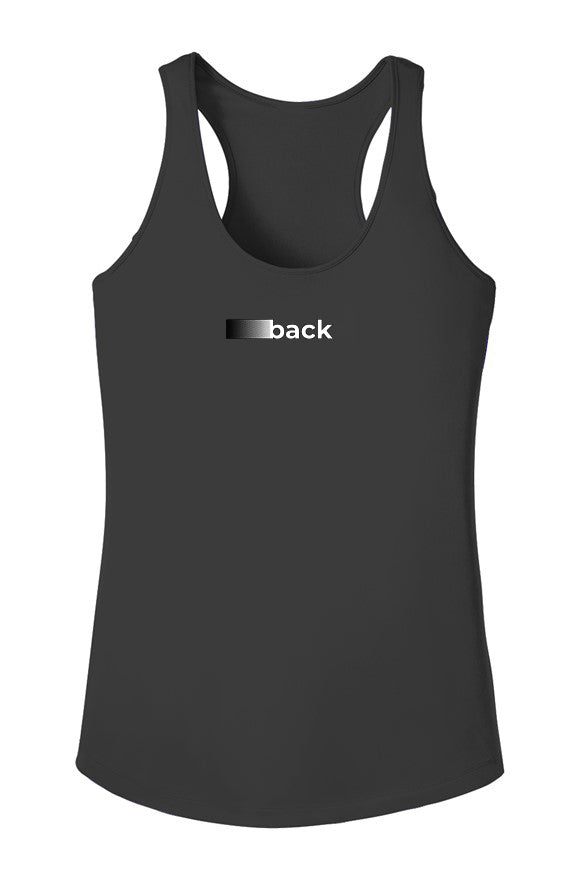
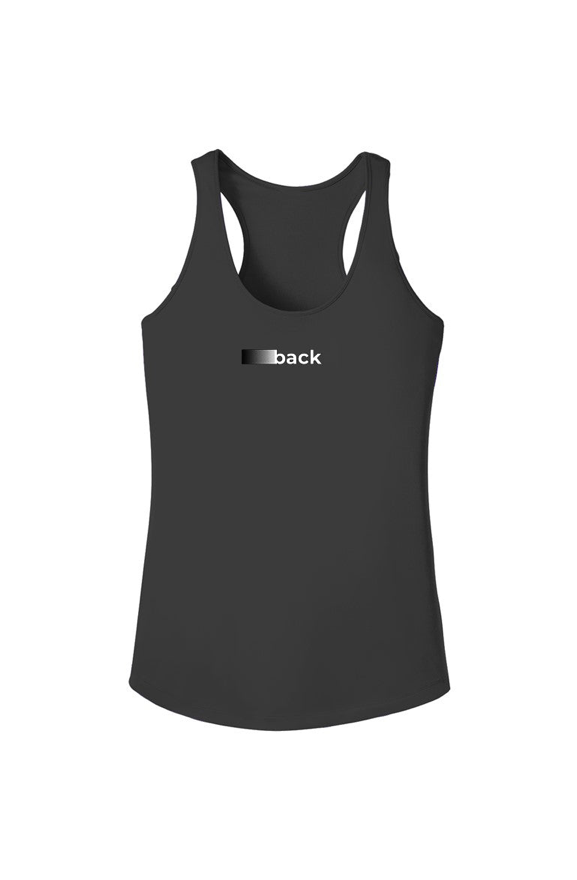
Use flat mockups for all products; remove personal photo, pad Racer Back image

Changed region(s): [[0.1248, 0.0614, 0.8735, 0.9511]]

diff --git a/back-home.html b/back-home.html
@@ -7,7 +7,7 @@
     <meta name="description" content="The Back Home shirt. Premium 65% polyester / 35% cotton blend for ultimate comfort.">
     <meta property="og:title" content="Back Home — Back Shirt">
     <meta property="og:description" content="65% polyester / 35% cotton. Soft, lightweight, and perfect for relaxing or celebrating the joy of coming home.">
-    <meta property="og:image" content="https://www.wearbackshirt.com/IMG_3207.png">
+    <meta property="og:image" content="https://www.wearbackshirt.com/back-home.png">
     <meta property="og:url" content="https://www.wearbackshirt.com/back-home.html">
     <meta property="og:type" content="website">
     <link rel="canonical" href="https://www.wearbackshirt.com/back-home.html">
@@ -16,7 +16,7 @@
       "@context": "https://schema.org/",
       "@type": "Product",
       "name": "Back Home",
-      "image": "https://www.wearbackshirt.com/IMG_3207.png",
+      "image": "https://www.wearbackshirt.com/back-home.png",
       "description": "65% polyester / 35% cotton. Soft, lightweight, and perfect for relaxing or celebrating the joy of coming home.",
       "brand": { "@type": "Brand", "name": "Back Shirt" },
       "offers": {
@@ -109,7 +109,7 @@
     <a href="index.html" class="back-link">&larr; Back</a>
 
     <section class="section-pad w3-center">
-      <img src="IMG_3207.png" class="product-hero-img" alt="Back Home">
+      <img src="back-home.png" class="product-hero-img" alt="Back Home">
 
       <h1 class="product-title">Back Home</h1>
 

diff --git a/index.html b/index.html
@@ -310,7 +310,7 @@
       <div class="w3-col l3 m6 s12">
         <a href="back-home.html" style="text-decoration:none;">
           <div class="product-card">
-            <div class="product-img" style="background-image: url('IMG_3207.png');" role="img" aria-label="Back Home"></div>
+            <div class="product-img" style="background-image: url('back-home.png'); background-position: center;" role="img" aria-label="Back Home"></div>
             <div class="product-info">
               <div class="product-name">Back Home</div>
               <div class="product-price">$29.99</div>
@@ -332,7 +332,7 @@
       <div class="w3-col l3 m6 s12">
         <a href="racer-back.html" style="text-decoration:none;">
           <div class="product-card">
-            <div class="product-img" style="background-image: url('racer-back.png'); background-position: center; background-size: contain; background-color: #fff;" role="img" aria-label="Racer Back"></div>
+            <div class="product-img" style="background-image: url('racer-back.png'); background-position: center;" role="img" aria-label="Racer Back"></div>
             <div class="product-info">
               <div class="product-name">Racer Back</div>
               <div class="product-price">$29.99</div>
